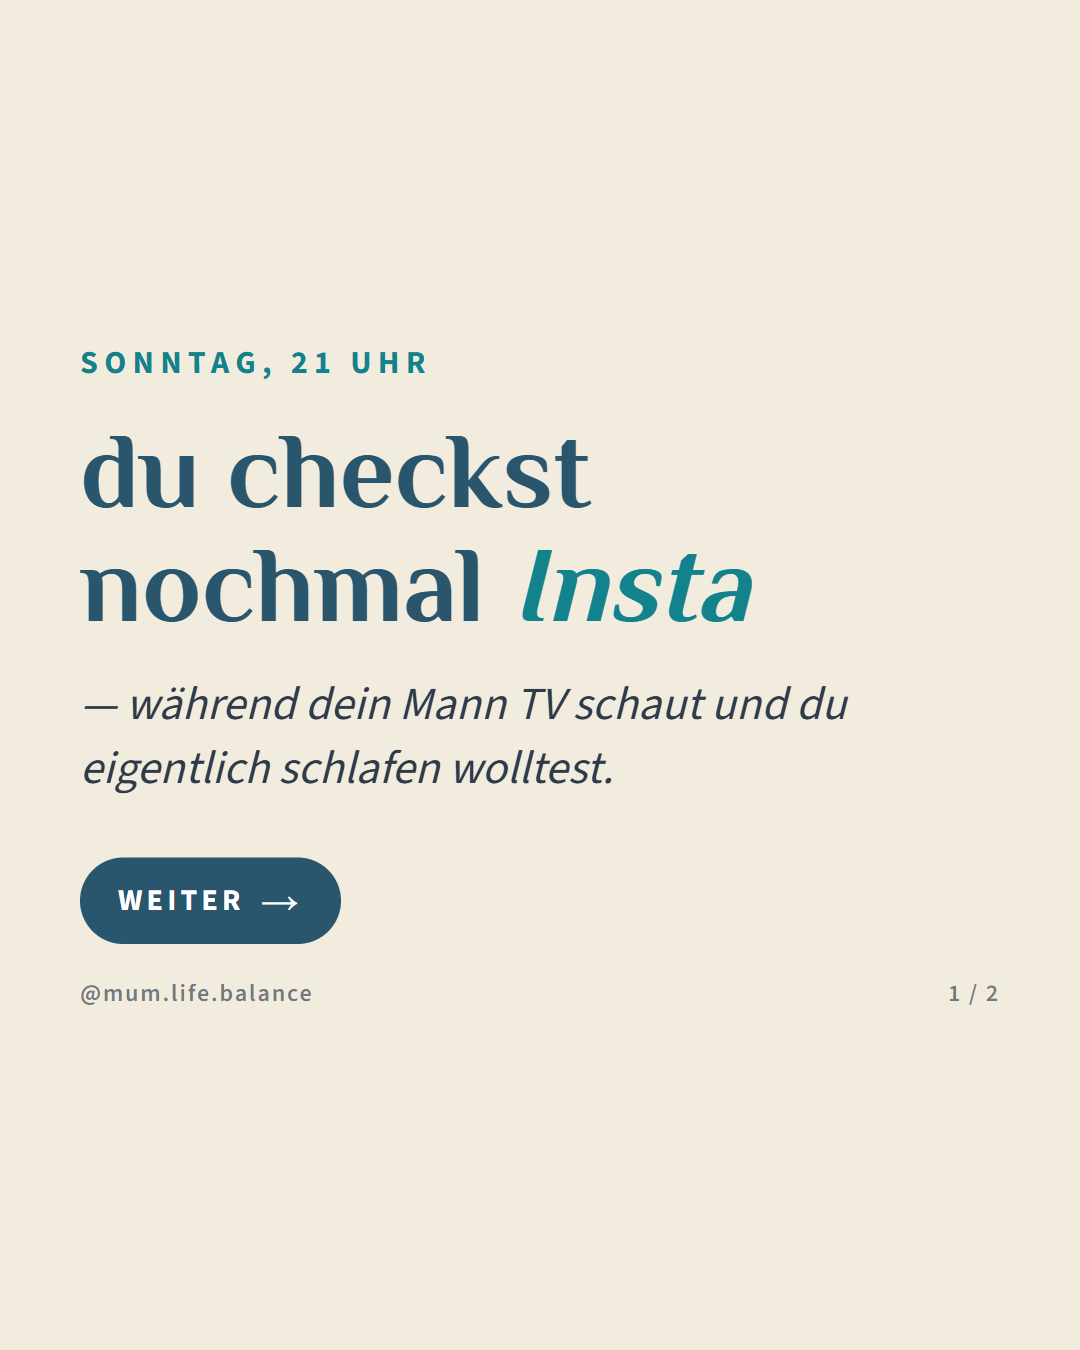
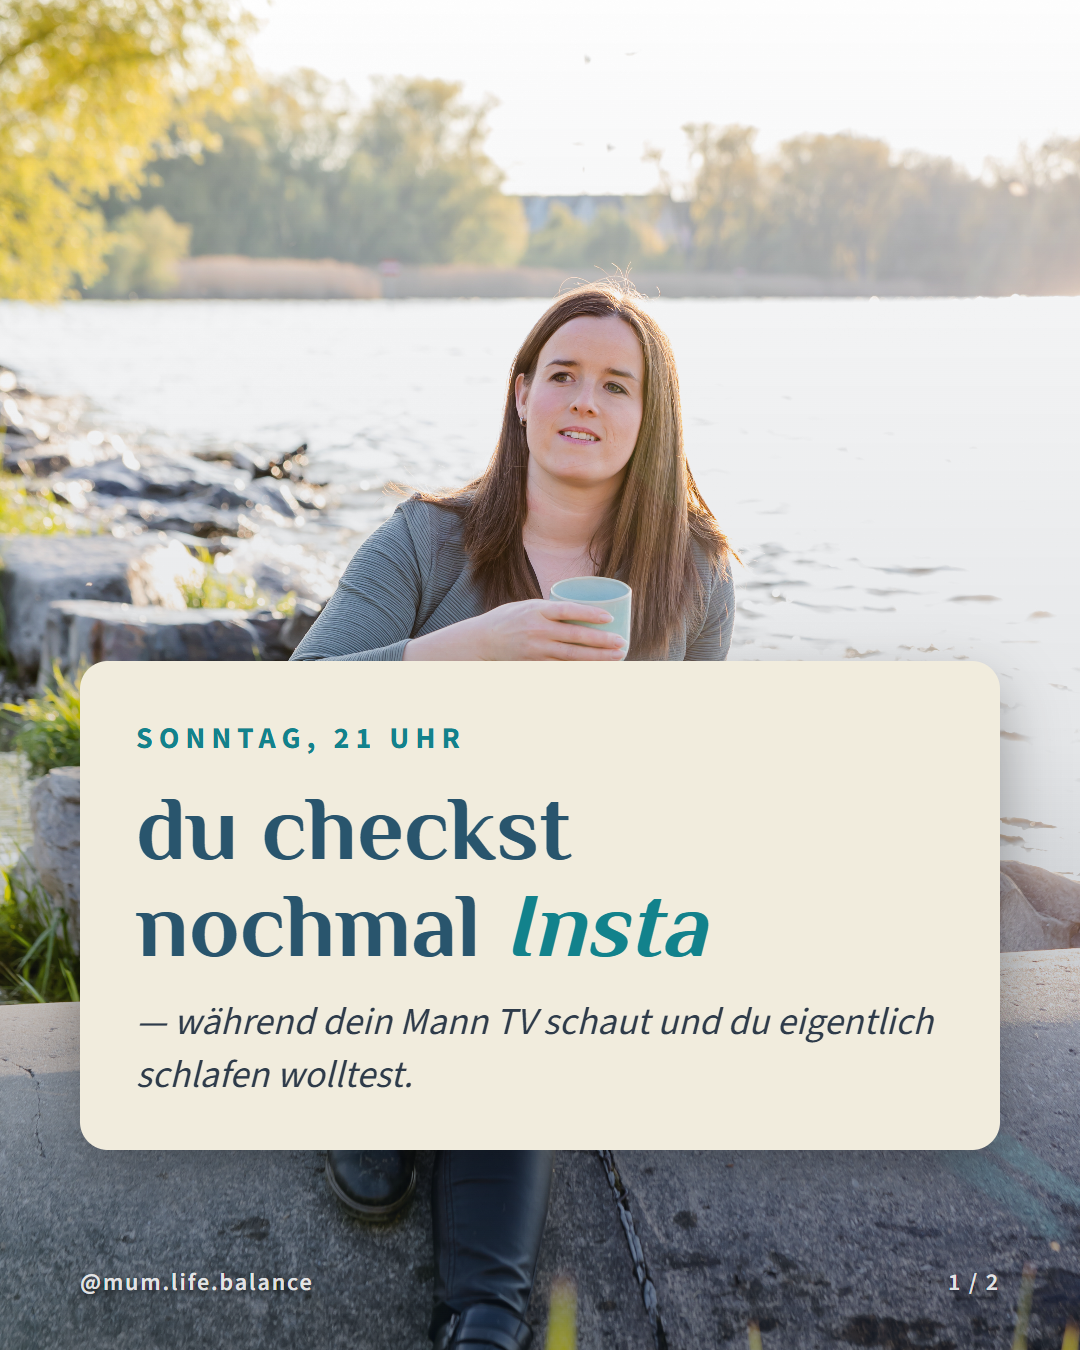
feed-aesthetic-fix-v2: 4 Cover-Tausch nach ABAB-Regel
- Sonntag-21-Uhr: Template Creme → Foto+Creme-Box (Patricia mit Tasse)
- Echt1-Teamcall: Foto+Creme-Box → Template Dunkelblau
- Network-Standbein: Voll-Petrol → Foto+Petrol-Box (Patricia auf Stein)
- 5-Mamas: Template Creme → Foto+Creme-Box (Orange-Kleid)

diff --git a/outputs/single-image/2026-06-5-mamas-zusammen/slides.html b/outputs/single-image/2026-06-5-mamas-zusammen/slides.html
@@ -29,32 +29,35 @@
       .bottom-block .engage-card .text { font-family: "Philosopher"; font-weight: 700; font-style: italic; font-size: 46px; line-height: 1.2; color: var(--dunkelblau); }
       .bottom-block .engage-card .text .heart { color: var(--orange); }
       .bottom-block .brand-footer { display: flex; justify-content: space-between; align-items: center; font-family: "Source Sans 3"; font-weight: 600; font-size: 24px; color: rgba(12,28,48,0.55); letter-spacing: 0.08em; }
+
+      .slide-foto { padding: 0 !important; background: #000 !important; gap: 0 !important; }
+      .slide-foto .cover-bg { position: absolute; inset: 0; width: 100%; height: 100%; object-fit: cover; object-position: center 30%; z-index: 0; }
+      .slide-foto .cover-overlay { position: absolute; inset: 0; background: linear-gradient(180deg, rgba(12,28,48,0) 0%, rgba(12,28,48,0.1) 50%, rgba(12,28,48,0.45) 100%); z-index: 1; }
+      .slide-foto .cover-content { position: absolute; inset: 0; display: flex; flex-direction: column; justify-content: flex-end; align-items: center; padding: 90px 60px 200px; z-index: 2; }
+      .slide-foto .hook-box { background: var(--creme); padding: 52px 52px 44px; border-radius: 28px; box-shadow: 0 24px 60px rgba(0,0,0,0.4); text-align: left; max-width: 960px; }
+      .slide-foto .hook-box .eyebrow { font-family: "Source Sans 3"; font-weight: 700; font-size: 28px; letter-spacing: 0.2em; text-transform: uppercase; color: var(--petrol); margin-bottom: 22px; }
+      .slide-foto .hook-box .hook { font-family: "Philosopher"; font-weight: 700; font-size: 84px; line-height: 1.06; color: var(--dunkelblau); }
+      .slide-foto .hook-box .hook .pop { color: var(--petrol); font-style: italic; }
+      .slide-foto .hook-box .hook .big-pop { background: var(--petrol); color: #fff; padding: 0 18px; border-radius: 12px; font-style: italic; display: inline-block; margin-top: 8px; }
+      .slide-foto .brand-footer-foto { position: absolute; bottom: 50px; left: 80px; right: 80px; display: flex; justify-content: space-between; align-items: center; font-family: "Source Sans 3"; font-weight: 600; font-size: 24px; color: rgba(255,255,255,0.9); letter-spacing: 0.08em; text-shadow: 0 2px 6px rgba(0,0,0,0.7); z-index: 3; }
     </style>
   </head>
   <body>
 
-    <!-- ===================== SLIDE 1 — HOOK + OPEN LOOP ===================== -->
-    <div class="slide">
-
-      <div class="top-block">
-        <div class="eyebrow">Aus dem Pilot mit 5 Mamas</div>
-        <div class="hook">Was 5 Mamas<br/>zusammen schaffen,<br/><span class="big-pop">schaffst du allein nicht</span></div>
-      </div>
-
-      <div class="middle-block">
-        <p class="body lead">
-          Fünf Frauen, dieselbe Phase, derselbe Mut zum Anfangen &mdash; und mittendrin etwas, das ich für mich allein nie gesehen hätte.
-        </p>
-      </div>
-
-      <div class="bottom-block">
-        <div class="swipe"><span>Weiter</span><span class="arrow">&rarr;</span></div>
-        <div class="brand-footer">
-          <span>@mum.life.balance</span>
-          <span>1 / 2</span>
+    <!-- ===================== SLIDE 1 — HOOK (FOTO-COVER) ===================== -->
+    <div class="slide slide-foto">
+      <img class="cover-bg" src="assets/cover-foto.jpg" alt="Patricia" />
+      <div class="cover-overlay"></div>
+      <div class="cover-content">
+        <div class="hook-box">
+          <div class="eyebrow">Aus dem Pilot mit 5 Mamas</div>
+          <div class="hook">Was 5 Mamas zusammen schaffen, <span class="big-pop">schaffst du allein nicht</span></div>
         </div>
       </div>
-
+      <div class="brand-footer-foto">
+        <span>@mum.life.balance</span>
+        <span>1 / 2</span>
+      </div>
     </div>
 
     <!-- ===================== SLIDE 2 — AUFLÖSUNG + CTA ===================== -->

diff --git a/outputs/single-image/2026-06-sonntag-21-uhr/slides.html b/outputs/single-image/2026-06-sonntag-21-uhr/slides.html
@@ -29,27 +29,36 @@
       .bottom-block .engage-card .text { font-family: "Source Sans 3"; font-weight: 600; font-size: 38px; line-height: 1.35; color: #fff; }
       .bottom-block .engage-card .text .pop { background: #fff; color: var(--petrol); padding: 2px 14px; border-radius: 8px; font-weight: 700; }
       .bottom-block .brand-footer { display: flex; justify-content: space-between; align-items: center; font-family: "Source Sans 3"; font-weight: 600; font-size: 24px; color: rgba(12,28,48,0.55); letter-spacing: 0.08em; }
+
+      .slide-foto { padding: 0 !important; background: #000 !important; gap: 0 !important; }
+      .slide-foto .cover-bg { position: absolute; inset: 0; width: 100%; height: 100%; object-fit: cover; object-position: center 35%; z-index: 0; }
+      .slide-foto .cover-overlay { position: absolute; inset: 0; background: linear-gradient(180deg, rgba(12,28,48,0) 0%, rgba(12,28,48,0.1) 55%, rgba(12,28,48,0.4) 100%); z-index: 1; }
+      .slide-foto .cover-content { position: absolute; inset: 0; display: flex; flex-direction: column; justify-content: flex-end; align-items: center; padding: 90px 80px 200px; z-index: 2; }
+      .slide-foto .hook-box { background: var(--creme); padding: 56px 56px 48px; border-radius: 28px; box-shadow: 0 24px 60px rgba(0,0,0,0.35); text-align: left; max-width: 920px; }
+      .slide-foto .hook-box .eyebrow { font-family: "Source Sans 3"; font-weight: 700; font-size: 30px; letter-spacing: 0.2em; text-transform: uppercase; color: var(--petrol); margin-bottom: 20px; }
+      .slide-foto .hook-box .hook { font-family: "Philosopher"; font-weight: 700; font-size: 92px; line-height: 1.05; color: var(--dunkelblau); margin-bottom: 22px; }
+      .slide-foto .hook-box .hook .pop { color: var(--petrol); font-style: italic; }
+      .slide-foto .hook-box .sub { font-family: "Source Sans 3"; font-weight: 400; font-style: italic; font-size: 38px; line-height: 1.4; color: var(--text); opacity: 0.85; }
+      .slide-foto .brand-footer-foto { position: absolute; bottom: 50px; left: 80px; right: 80px; display: flex; justify-content: space-between; align-items: center; font-family: "Source Sans 3"; font-weight: 600; font-size: 24px; color: rgba(255,255,255,0.85); letter-spacing: 0.08em; text-shadow: 0 2px 6px rgba(0,0,0,0.7); z-index: 3; }
     </style>
   </head>
   <body>
 
-    <!-- ===================== SLIDE 1 — HOOK ===================== -->
-    <div class="slide">
-
-      <div class="top-block">
-        <div class="eyebrow">Sonntag, 21 Uhr</div>
-        <div class="hook">du checkst<br/>nochmal <span class="pop">Insta</span></div>
-        <div class="sub">&mdash; während dein Mann TV schaut und du eigentlich schlafen wolltest.</div>
-      </div>
-
-      <div class="bottom-block">
-        <div class="swipe"><span>Weiter</span><span class="arrow">&rarr;</span></div>
-        <div class="brand-footer">
-          <span>@mum.life.balance</span>
-          <span>1 / 2</span>
+    <!-- ===================== SLIDE 1 — HOOK (FOTO-COVER) ===================== -->
+    <div class="slide slide-foto">
+      <img class="cover-bg" src="assets/cover-foto.jpg" alt="" />
+      <div class="cover-overlay"></div>
+      <div class="cover-content">
+        <div class="hook-box">
+          <div class="eyebrow">Sonntag, 21 Uhr</div>
+          <div class="hook">du checkst<br/>nochmal <span class="pop">Insta</span></div>
+          <div class="sub">&mdash; während dein Mann TV schaut und du eigentlich schlafen wolltest.</div>
         </div>
       </div>
-
+      <div class="brand-footer-foto">
+        <span>@mum.life.balance</span>
+        <span>1 / 2</span>
+      </div>
     </div>
 
     <!-- ===================== SLIDE 2 — SZENE + CTA ===================== -->

diff --git a/outputs/karussells/2026-06-echt1-teamcall-anfrage/slides.html b/outputs/karussells/2026-06-echt1-teamcall-anfrage/slides.html
@@ -18,16 +18,14 @@
       .footer { position: absolute; bottom: 50px; left: 80px; right: 80px; display: flex; justify-content: space-between; align-items: center; font-family: "Source Sans 3"; font-weight: 600; font-size: 24px; color: rgba(12, 28, 48, 0.55); letter-spacing: 0.08em; z-index: 5; }
       .bg-petrol .footer { color: rgba(255, 255, 255, 0.7); }
 
-      /* SLIDE 1 — FOTO-COVER */
-      .s1 { padding: 0; background: var(--creme); }
-      .s1 .cover-foto { position: absolute; inset: 0; width: 100%; height: 100%; object-fit: cover; object-position: center 25%; z-index: 1; }
-      .s1 .top-band { position: absolute; top: 60px; left: 60px; right: 60px; background: rgba(241, 236, 221, 0.9); backdrop-filter: blur(6px); padding: 18px 32px; border-radius: 18px; text-align: center; z-index: 3; }
-      .s1 .top-band .label { font-family: "Source Sans 3"; font-weight: 700; font-size: 28px; letter-spacing: 0.18em; text-transform: uppercase; color: var(--petrol); }
-      .s1 .hook-card { position: absolute; left: 60px; right: 60px; bottom: 160px; background: var(--creme); padding: 44px 52px; border-radius: 28px; box-shadow: 0 18px 48px rgba(12,28,48,0.4); z-index: 4; }
-      .s1 .hook-card .hook { font-family: "Philosopher"; font-weight: 700; font-size: 76px; line-height: 1.06; color: var(--dunkelblau); }
-      .s1 .hook-card .hook .pop { color: var(--petrol); font-style: italic; }
-      .s1 .hook-card .sub { font-family: "Source Sans 3"; font-weight: 600; font-size: 28px; letter-spacing: 0.06em; color: var(--petrol); margin-top: 14px; }
-      .s1 .footer { bottom: 60px; color: rgba(255,255,255,0.95); text-shadow: 0 2px 6px rgba(0,0,0,0.7); z-index: 4; }
+      /* SLIDE 1 — TEMPLATE DUNKELBLAU */
+      .s1-template { background: var(--dunkelblau); color: var(--creme); padding: 130px 90px; justify-content: center; }
+      .s1-template .eyebrow-tpl { font-family: "Source Sans 3"; font-weight: 700; font-size: 30px; letter-spacing: 0.2em; text-transform: uppercase; color: var(--orange); margin-bottom: 56px; }
+      .s1-template .hook-tpl { font-family: "Philosopher"; font-weight: 700; font-size: 116px; line-height: 1.05; color: var(--creme); margin-bottom: 36px; }
+      .s1-template .hook-tpl .pop { color: #fff; font-style: italic; }
+      .s1-template .hook-tpl .pop2 { color: var(--orange); font-style: italic; }
+      .s1-template .sub-tpl { font-family: "Source Sans 3"; font-weight: 400; font-style: italic; font-size: 42px; line-height: 1.4; color: rgba(241,236,221,0.9); }
+      .s1-template .footer-tpl { color: rgba(241,236,221,0.7); }
 
       /* SLIDE 2 — SPANNUNG CREME */
       .s2 { justify-content: center; }
@@ -69,14 +67,11 @@
   </head>
   <body>
 
-    <div class="slide s1">
-      <img class="cover-foto" src="assets/cover-foto.jpg" alt="Patricia" />
-      <div class="top-band"><div class="label">Workbook · 6 Schritte</div></div>
-      <div class="hook-card">
-        <div class="hook">Vom <span class="pop">Teamcall</span><br/>zur echten Anfrage</div>
-        <div class="sub">6 Schritte aus 2 Wochen Pilot</div>
-      </div>
-      <div class="footer"><span>@mum.life.balance</span><span>Swipe →</span></div>
+    <div class="slide s1-template">
+      <div class="eyebrow-tpl">Workbook · 6 Schritte</div>
+      <div class="hook-tpl">Vom <span class="pop">Teamcall</span><br/>zur echten <span class="pop2">Anfrage</span></div>
+      <div class="sub-tpl">6 Schritte aus 2 Wochen Pilot</div>
+      <div class="footer footer-tpl"><span>@mum.life.balance</span><span>Swipe →</span></div>
     </div>
 
     <div class="slide bg-creme s2">

diff --git a/outputs/karussells/2026-06-network-standbein/slides.html b/outputs/karussells/2026-06-network-standbein/slides.html
@@ -18,10 +18,17 @@
       .footer { position: absolute; bottom: 50px; left: 80px; right: 80px; display: flex; justify-content: space-between; align-items: center; font-family: "Source Sans 3"; font-weight: 600; font-size: 24px; color: rgba(12, 28, 48, 0.55); letter-spacing: 0.08em; z-index: 5; }
       .bg-petrol .footer { color: rgba(255, 255, 255, 0.7); }
 
-      /* SLIDE 1 — HOOK PETROL */
-      .s1 { justify-content: center; align-items: flex-start; text-align: left; color: #fff; }
-      .s1 .hook { font-family: "Philosopher"; font-weight: 700; font-size: 96px; line-height: 1.08; color: #fff; }
-      .s1 .hook .pop { font-style: italic; opacity: 0.95; }
+      /* SLIDE 1 — FOTO + PETROL-BOX */
+      .s1-foto { padding: 0 !important; background: #000 !important; }
+      .s1-foto .cover-bg { position: absolute; inset: 0; width: 100%; height: 100%; object-fit: cover; object-position: center 30%; z-index: 0; }
+      .s1-foto .cover-overlay { position: absolute; inset: 0; background: linear-gradient(180deg, rgba(12,28,48,0) 0%, rgba(12,28,48,0.15) 50%, rgba(12,28,48,0.5) 100%); z-index: 1; }
+      .s1-foto .top-band { position: absolute; top: 70px; left: 80px; z-index: 3; }
+      .s1-foto .top-band .label { font-family: "Source Sans 3"; font-weight: 700; font-size: 26px; letter-spacing: 0.2em; text-transform: uppercase; color: #fff; display: inline-block; padding: 14px 24px; background: var(--dunkelblau); border-radius: 14px; box-shadow: 0 8px 24px rgba(0,0,0,0.35); }
+      .s1-foto .hook-card { position: absolute; left: 60px; right: 60px; bottom: 150px; background: var(--petrol); padding: 48px 52px 44px; border-radius: 28px; box-shadow: 0 22px 56px rgba(0,0,0,0.45); z-index: 4; color: #fff; }
+      .s1-foto .hook-card .hook { font-family: "Philosopher"; font-weight: 700; font-size: 72px; line-height: 1.06; color: #fff; }
+      .s1-foto .hook-card .hook .pop { font-style: italic; color: var(--orange); }
+      .s1-foto .hook-card .sub { font-family: "Source Sans 3"; font-weight: 600; font-size: 28px; letter-spacing: 0.06em; color: rgba(255,255,255,0.9); margin-top: 14px; text-transform: uppercase; }
+      .s1-foto .footer { bottom: 60px; color: rgba(255,255,255,0.92); text-shadow: 0 2px 6px rgba(0,0,0,0.7); z-index: 4; }
 
       /* SLIDE 2 — SPANNUNG CREME */
       .s2 { justify-content: center; }
@@ -60,9 +67,14 @@
   </head>
   <body>
 
-    <div class="slide bg-petrol s1">
-      <div class="eyebrow">Vom Network zum eigenen</div>
-      <div class="hook">Wie aus deinem<br/><span class="pop">Network</span><br/>ein eigenes Standbein wird</div>
+    <div class="slide s1-foto">
+      <img class="cover-bg" src="assets/cover-foto.jpg" alt="Patricia" />
+      <div class="cover-overlay"></div>
+      <div class="top-band"><span class="label">Vom Network zum eigenen</span></div>
+      <div class="hook-card">
+        <div class="hook">Wie aus deinem <span class="pop">Network</span> ein eigenes Standbein wird</div>
+        <div class="sub">Mum Business Academy — Pilot</div>
+      </div>
       <div class="footer"><span>@mum.life.balance</span><span>Swipe →</span></div>
     </div>
 
